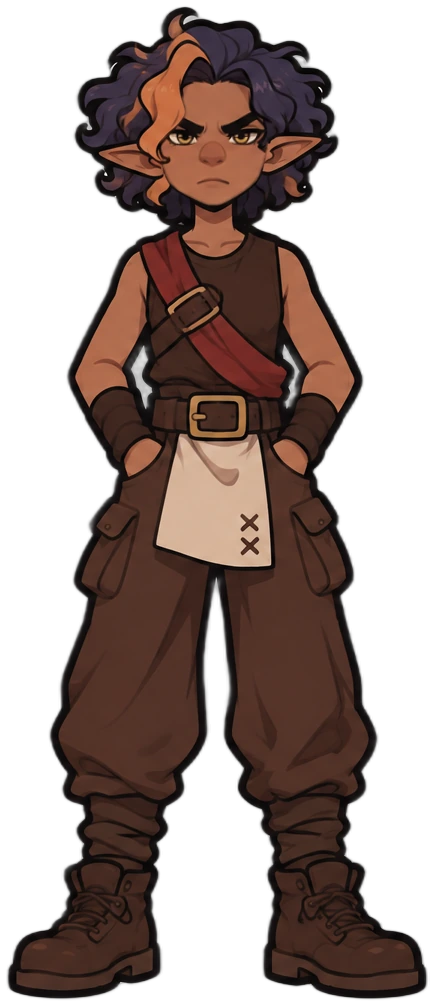
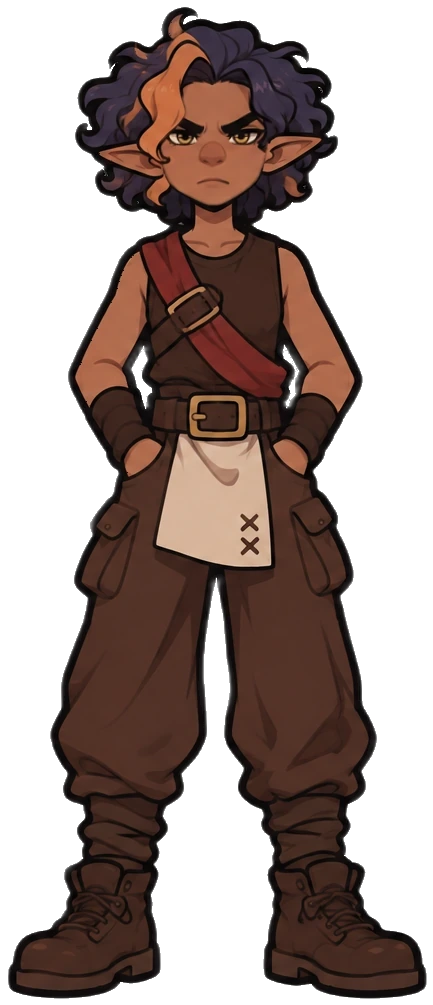
Kaoro sem rebarbas brancas na borda (versao 4) + ferramenta de limpeza
Claude-Session: https://claude.ai/code/session_01UAy89vbUTZugM6nZ8sJaNe

diff --git a/ferramentas/limpa_borda.py b/ferramentas/limpa_borda.py
@@ -1,0 +1,56 @@
+import sys, numpy as np
+from PIL import Image
+from scipy import ndimage as nd
+ST=np.ones((3,3),bool)
+def sobra_grande(op,minarea=150):
+    lab,n=nd.label(op,ST)
+    if n<=1: return op
+    ar=nd.sum(op,lab,range(1,n+1)); keep=np.zeros(n+1,bool)
+    keep[1:]=ar>=max(minarea,ar.max()*0.002); return keep[lab]
+def limpa(im, peel=4, perto=12, maxman=90):
+    a=np.array(im.convert('RGBA')).astype(np.float32)
+    rgb=a[...,:3]; al=a[...,3]
+    mx=rgb.max(-1); mn=rgb.min(-1); lum=rgb@[.299,.587,.114]
+    W=((lum>105)&((mx-mn)<60))|(lum>205)
+    op=sobra_grande((al>=100)&~((al<245)&W))
+    fora=~op
+    dE=nd.distance_transform_edt(~fora)
+    # manchinhas claras perto da borda (dentro do contorno preto)
+    cand=W&(dE<=perto)&(al>0)
+    lab,n=nd.label(cand,ST)
+    ruim=np.zeros_like(cand)
+    if n:
+        ar=nd.sum(cand,lab,range(1,n+1))
+        # tamanho total da mancha clara (mesmo fora da faixa) p/ não comer áreas brancas grandes
+        labW,nW=nd.label(W&(al>0),ST); arW=nd.sum(W,labW,range(1,nW+1))
+        j=np.asarray(nd.maximum(labW,lab,range(1,n+1))).astype(int)
+        tot=np.where(j>0,arW[np.maximum(j-1,0)],0)
+        okc=np.zeros(n+1,bool); okc[1:]=tot<=maxman
+        ruim|=okc[lab]
+    # halo branco colado no transparente
+    o2=op.copy()
+    for _ in range(peel):
+        b=o2&nd.binary_dilation(~o2,ST)&W
+        if not b.any(): break
+        o2&=~b
+    ruim|=(op&~o2)
+    # pixels ruins: semitransparentes ou na beira somem; os de dentro pegam a cor escura vizinha
+    some=ruim&((al<230)|nd.binary_dilation(fora,ST))
+    op&=~some
+    pinta=ruim&op
+    bom=op&~W
+    if pinta.any():
+        _,(iy,ix)=nd.distance_transform_edt(~bom,return_indices=True)
+        rgb[pinta]=rgb[iy[pinta],ix[pinta]]
+    op=sobra_grande(op)
+    # beira: cor do sólido mais perto + alfa um pouco mais firme
+    dentro=nd.binary_erosion(op,ST)&(al>=250)
+    _,(iy,ix)=nd.distance_transform_edt(~dentro,return_indices=True)
+    anel=op&~dentro
+    alf=np.where(op,np.clip((al-40)/(255-40)*255,0,255),0)
+    alf[dentro]=255
+    out=np.dstack([rgb,alf]).clip(0,255).astype(np.uint8)
+    return Image.fromarray(out,'RGBA')
+if __name__=='__main__':
+    for p in sys.argv[1:]:
+        r=limpa(Image.open(p)); r.save(p,'WEBP',quality=92,method=6); print('ok',p)

diff --git a/CLAUDE.md b/CLAUDE.md
@@ -128,6 +128,6 @@ Cada ator da aba Atriz (`palco-animacao.html`) pode ter sentimentos: a personage
 - Palco: o texto é dividido em frases; `[surpresa]` ou `(surpresa)` no começo vale até o fim da frase, depois volta ao normal; `Tamaki: …` no começo da linha faz só esse ator falar (`FALA.quem`). Sem tag, o sentimento sai das palavras (se `emoAuto`). Botões de sentimento no painel Animação do ator.
 - Novel: `personagem tamaki "Tamaki" #cor ator Tamaki` liga ao ator (pisca e mexe a boca enquanto a fala aparece ou a voz toca); `tamaki [surpresa] "fala"` ou `tamaki (surpresa) "fala"` vale só nessa fala e volta ao do `mostra`. Sem ator, `[surpresa]` usa a arte `tamaki surpresa`.
 - Sentimentos prontos no repositório: `atores/indice.json` = `[{nome, pasta, nota, arquivos}]`, imagens em `atores/<ator>/` (WebP, mesma tela das poses originais, nomes `Tamaki_<sentimento>[_fala|_fala2|_pisca|_fala_pisca].webp`). Atriz › 😮 Sentimentos › 📥 Sentimentos prontos pergunta qual pronto (o do ator aberto vem marcado), troca para o ator com esse nome ou cria o ator se ele não existe, e instala. Arquivos sem sentimento no nome (`Kaoro.webp`, `Kaoro_fala.webp`…) vão para as poses normais (aba Imagens). Além disso, a Central (`atoresProntos()` no index.html) cria sozinha, ao abrir, todo ator do índice que ainda não existe no aparelho (uma vez só por nome: `central-atores-prontos`; apagou, não volta) e recarrega o Palco Animação. Atores prontos do Capítulo 1 (2026-11-20, folhas geradas no GPT pelo Tama): Tora, Goro, Reika, Yoru, Kiyoshi, Midori, Gen, Yuzu, Tetsuo, Banji, Hiyori, Shun, Kenichi, Momo, Kaname, Kaede, Haru e "Tamaki criança" (arquivos `Tamaki*.webp` em `atores/tamaki-crianca/`), só poses normais, WebP q92; o campo `tamanho` do índice vira o `size` do ator (crianças menores). Kaoro: só as 5 poses normais (fundo tirado com isnet-anime; todas usam o corpo da Parada e só a cabeça muda, alinhada pelo rosto, para não tremer na troca). Tamaki: feliz, animada, surpresa, convencida, emburrada, pensativa (feitas de 6 desenhos do Tama; olhos fechados = traço do olho fechado da feliz; bocas trocadas entre os desenhos dela).
-- Atores no estilo novo (bíblia de personagens, doc claude.ai/artifact/UmTf5SAu5teoMsUEmK7AdF): o Tama gera no GPT uma "ficha de expressões" = corpo inteiro com ROSTO LISO à esquerda e, à direita, grade 5 linhas × 3 colunas só de cabeças (linhas: normal, feliz, bravo, triste, surpreso; colunas: boca fechada, falando, olhos fechados). O Claude recorta (isnet-anime), acha escala/posição de cada cabeça no corpo (matchTemplate), alinha pelo nariz e cola só a pele do rosto (máscara do rosto liso do corpo), assim o cabelo e o corpo são sempre os mesmos. Vira poses normais + sentimentos (`_fala2` e `_fala_pisca` = cópia do `_fala`; sem `_pisca` quando a coluna 3 veio de olho aberto). Kaoro já está assim (versao 3). Piscar: só os olhos trocam — elipses nos olhos (centros x 188 e 246, y 142 no recorte do corpo) recebem os olhos fechados da linha normal (a feliz usa os dela), em `_pisca` e `_fala_pisca` de todos os sentimentos; assim a boca e as sobrancelhas não mudam quando ele pisca.
+- Atores no estilo novo (bíblia de personagens, doc claude.ai/artifact/UmTf5SAu5teoMsUEmK7AdF): o Tama gera no GPT uma "ficha de expressões" = corpo inteiro com ROSTO LISO à esquerda e, à direita, grade 5 linhas × 3 colunas só de cabeças (linhas: normal, feliz, bravo, triste, surpreso; colunas: boca fechada, falando, olhos fechados). O Claude recorta (isnet-anime), acha escala/posição de cada cabeça no corpo (matchTemplate), alinha pelo nariz e cola só a pele do rosto (máscara do rosto liso do corpo), assim o cabelo e o corpo são sempre os mesmos. Vira poses normais + sentimentos (`_fala2` e `_fala_pisca` = cópia do `_fala`; sem `_pisca` quando a coluna 3 veio de olho aberto). Kaoro já está assim (versao 4). Limpeza da borda (rebarbas brancas do fundo): `ferramentas/limpa_borda.py` (tira pedacinhos soltos, manchinhas claras dentro do contorno perto da borda, halo branco e pixels claros semitransparentes). Só serve para o estilo novo (contorno preto grosso); nos atores antigos de traço fino ele come cabelo branco e penas brancas, então neles a limpeza fica para quando forem refeitos no estilo novo. Piscar: só os olhos trocam — elipses nos olhos (centros x 188 e 246, y 142 no recorte do corpo) recebem os olhos fechados da linha normal (a feliz usa os dela), em `_pisca` e `_fala_pisca` de todos os sentimentos; assim a boca e as sobrancelhas não mudam quando ele pisca.
 - Atualizar um ator que já existe no aparelho: suba `versao` no item do índice. `atoresProntos()` guarda as versões em `central-atores-versao`; versão maior apaga as poses normais e as dos sentimentos do pacote e grava as novas no mesmo ator (mantém sentimentos que ele já tinha). `palavras` no item do índice = palavras de cada sentimento; `tamanho` só entra se o ator ainda não tem size.
 - Novel › 🎭 Atores (no menu e na barra do Roteiro): lista cada `personagem` com a foto, se está ligado (✅ / ⚠ ator não existe / sem ator), os sentimentos prontos e os que o roteiro pede sem pose (!). A lista de atores reescreve a linha `personagem … ator X`; os atores soltos têm ＋ Criar personagem.
